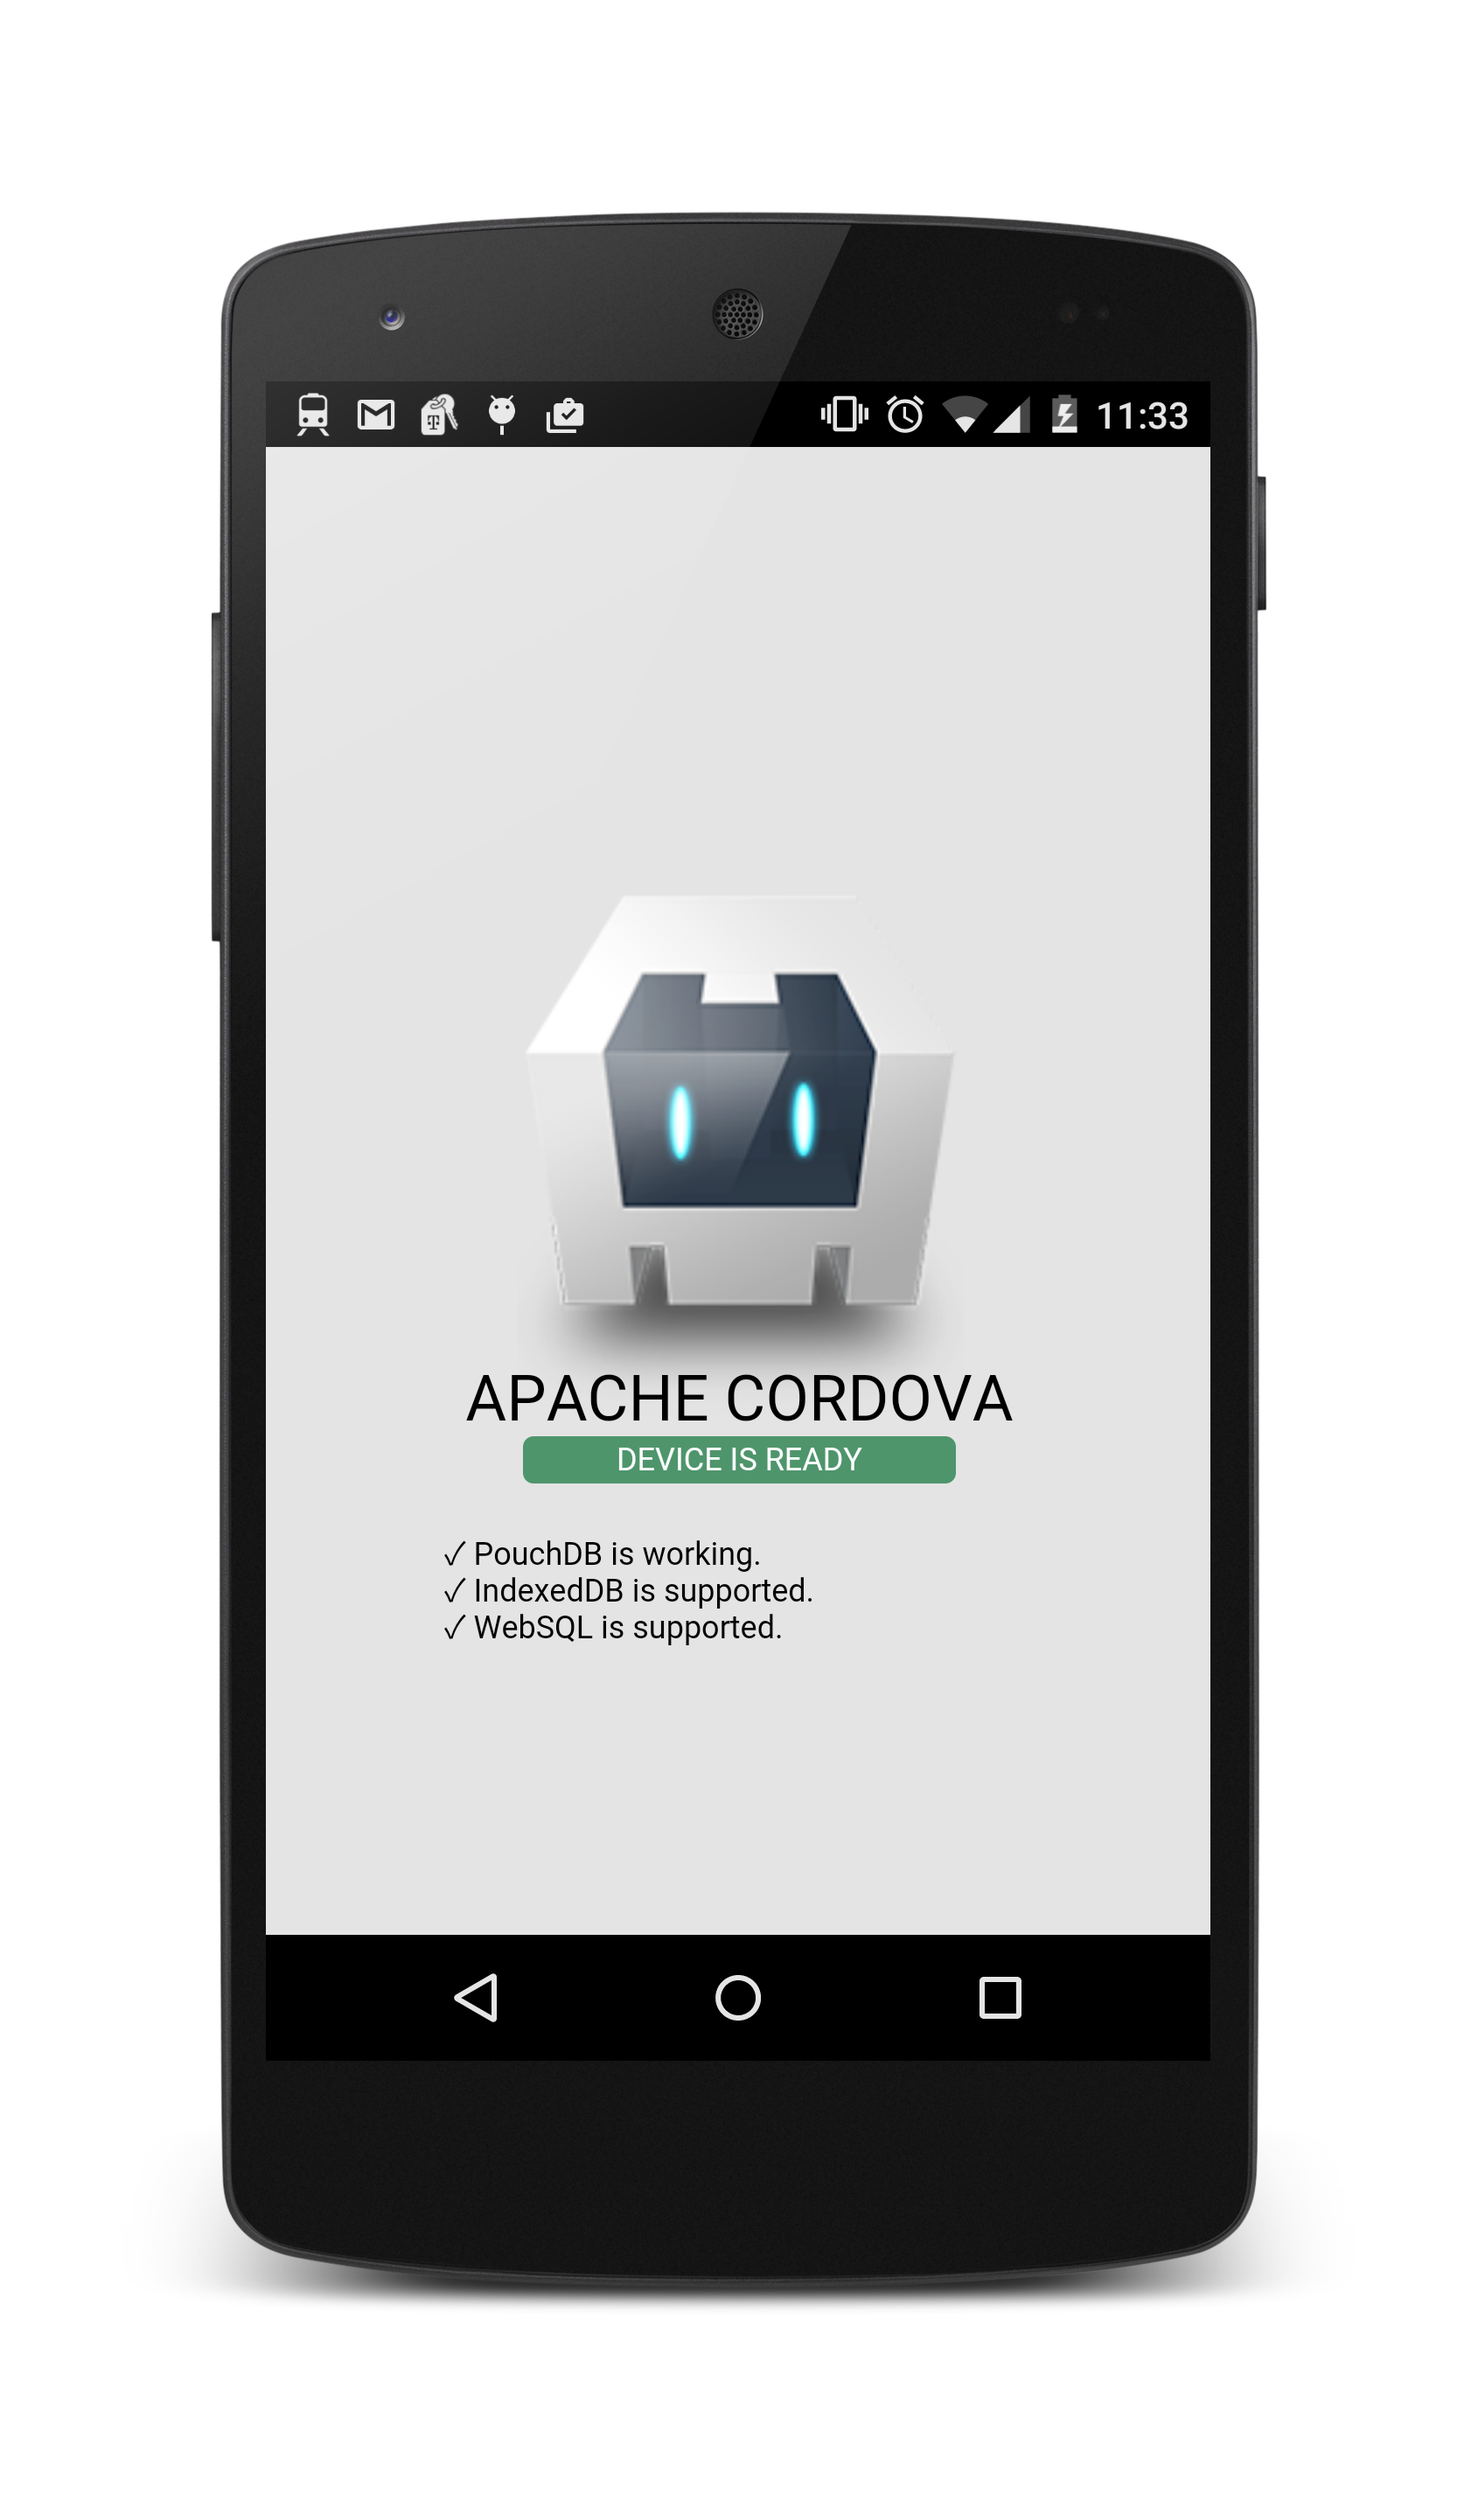
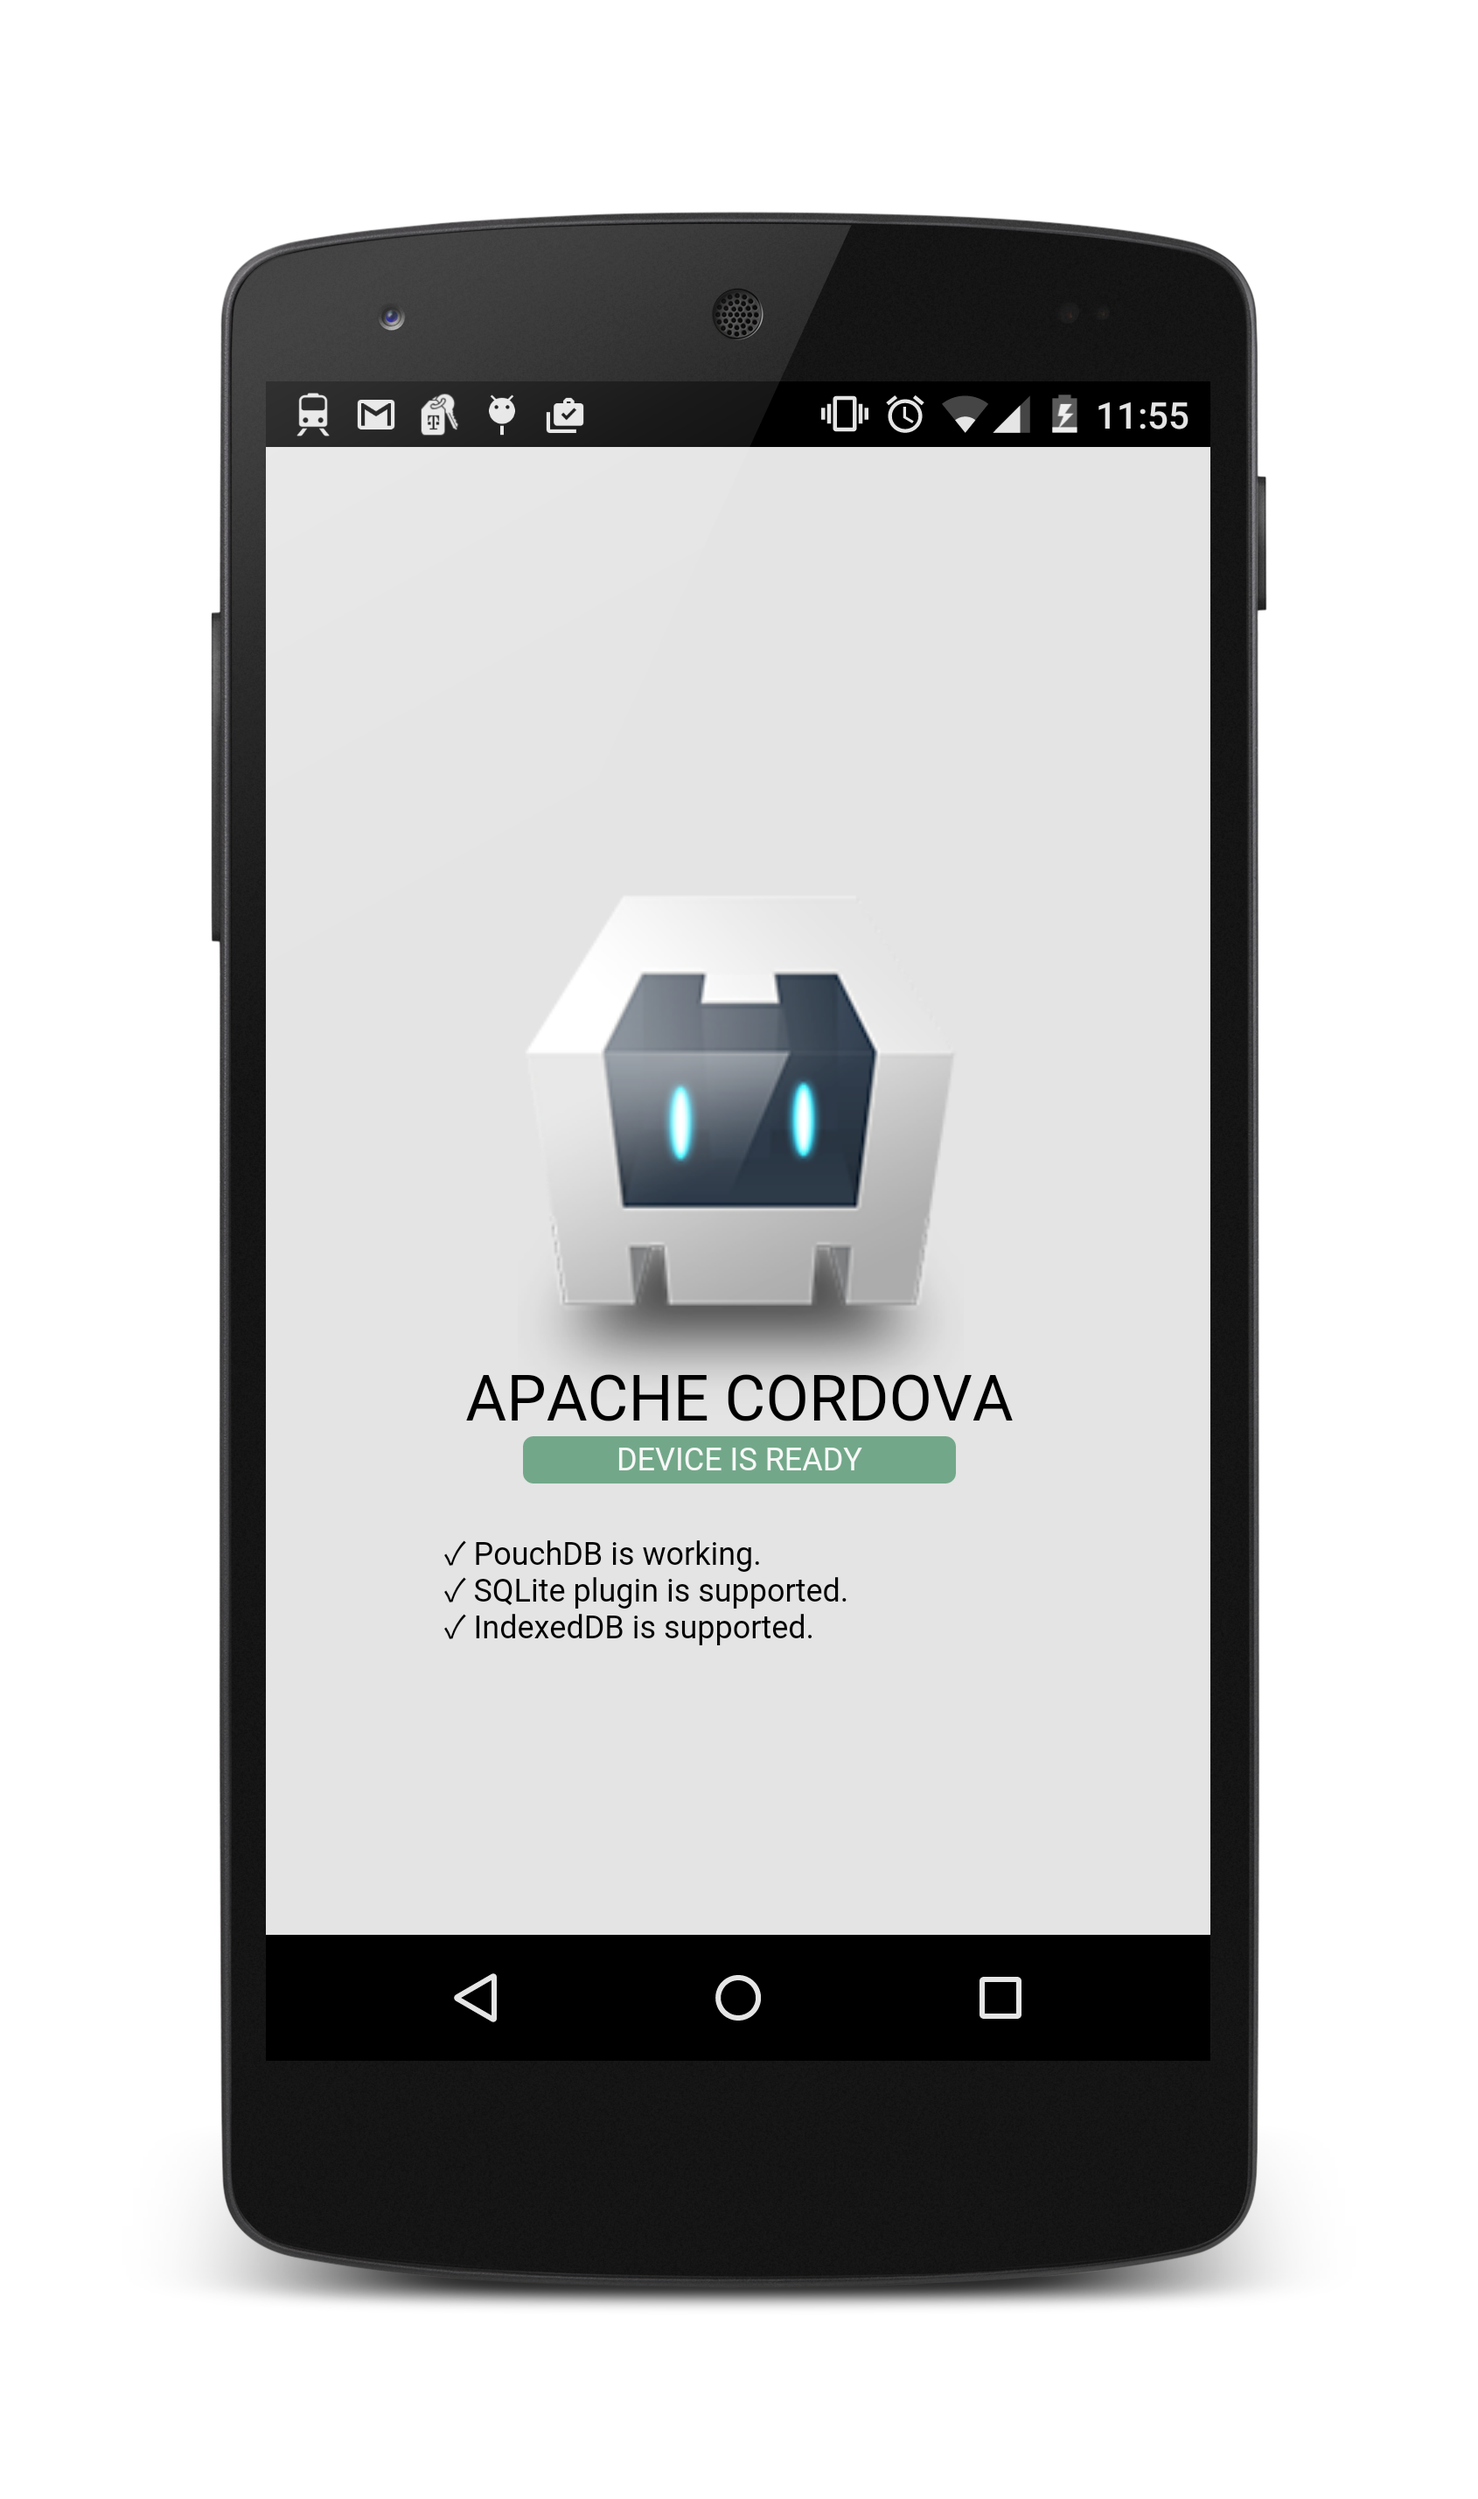
add sqlite plugin

Changed region(s): [[0.3385, 0.5607, 0.6462, 0.5919], [0.3077, 0.623, 0.5538, 0.6542]]

diff --git a/www/js/index.js b/www/js/index.js
@@ -37,13 +37,13 @@ var app = {
         
         var display = document.getElementById('pouchdb-display');
         
-        var db = new PouchDB('pouch');
-        var idb = new PouchDB('idbpouch', {adapter: 'idb'});
-        var websql = new PouchDB('websqlpouch', {adapter: 'websql'});
+        var db = new PouchDB('pouch');                                // <--- this one uses any available adapter
+        var idb = new PouchDB('idbpouch', {adapter: 'idb'});          // <--- this one uses IndexedDB
+        var websql = new PouchDB('websqlpouch', {adapter: 'websql'}); // <--- this one uses the SQLite plugin
         
         display.innerHTML += (db.adapter ? '&#10003; PouchDB is working.<br/>' : '&#10007; PouchDB is not working.<br/>');
+        display.innerHTML += (websql.adapter ? '&#10003; SQLite plugin is supported.<br/>' : '&#10007; SQLite plugin is not supported.<br/>');
         display.innerHTML += (idb.adapter ? '&#10003; IndexedDB is supported.<br/>' : '&#10007; IndexedDB is not supported.<br/>');
-        display.innerHTML += (websql.adapter ? '&#10003; WebSQL is supported.<br/>' : '&#10007; WebSQL is not supported.<br/>');
     },
     // Update DOM on a Received Event
     receivedEvent: function(id) {

diff --git a/README.md b/README.md
@@ -1,10 +1,13 @@
-Cordova PouchDB hello world app
+Cordova PouchDB hello world app, with SQLite Plugin
 =====
 
 This is a basic Cordova app. It was created using the `cordova` CLI, by running:
 
     cordova create pouchdb-hello-world
 
+Then I installed the [SQLite Plugin](https://github.com/brodysoft/Cordova-SQLitePlugin) by running:
+
+    cordova plugin add https://github.com/brodysoft/Cordova-SQLitePlugin
 
 To run the app yourself on a variety of platforms, just check out the code and follow the instructions below.
 
